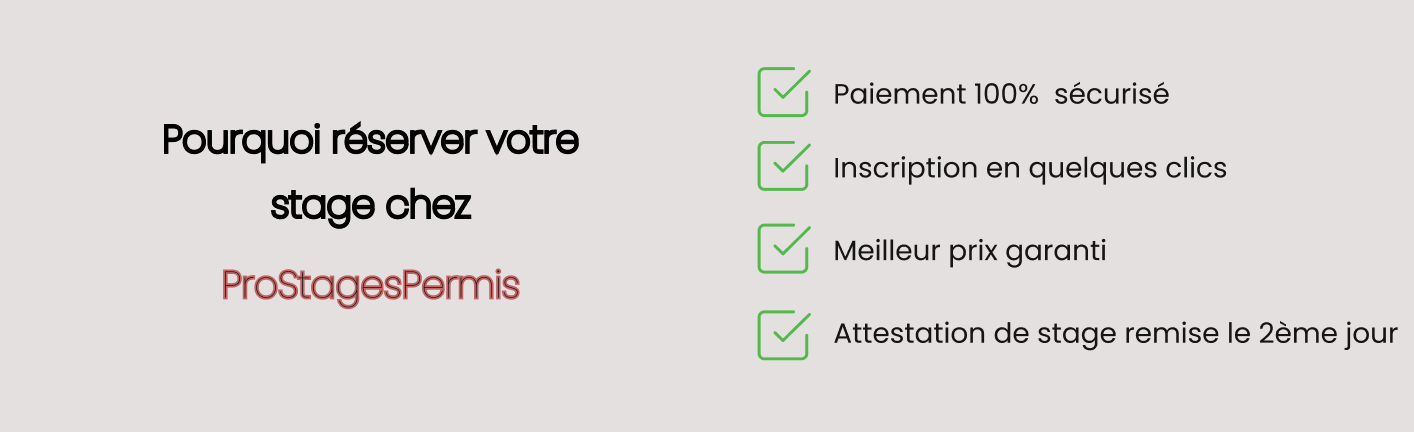
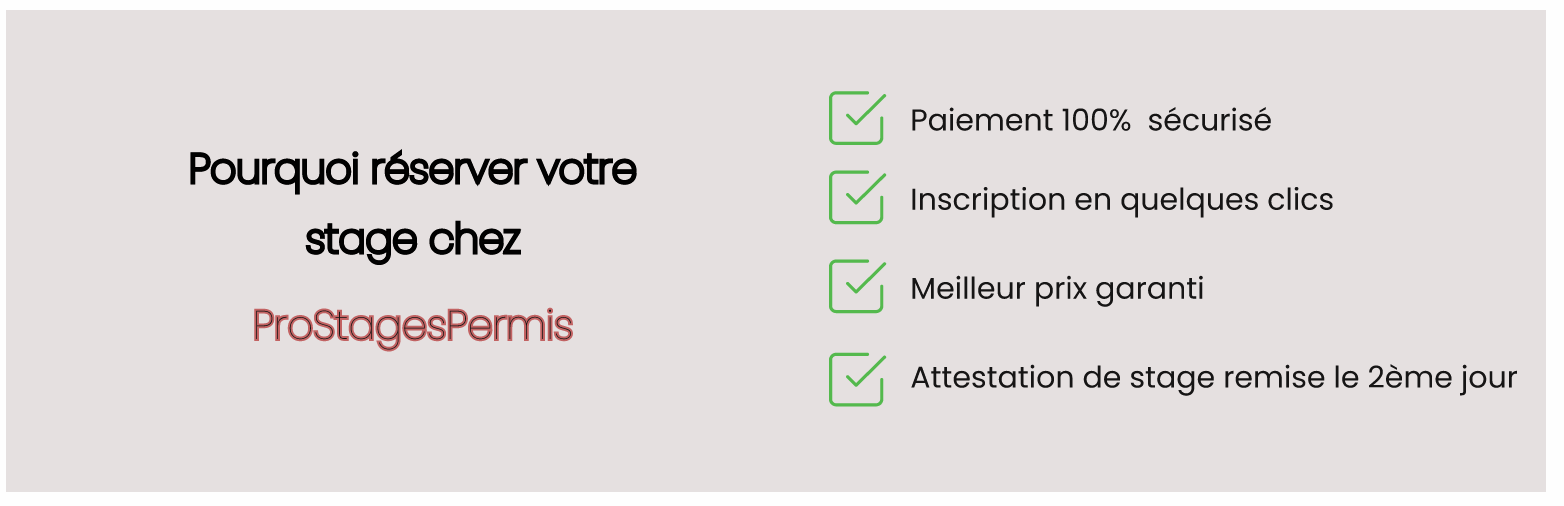
✨ feat: Replace placeholders with actual images in city page
- Replaced "Pourquoi réserver" section with full-width design image
- Replaced Europe 1 blue placeholder with actual logo image
- Updated "Écouter l'extrait" link to YouTube video (https://www.youtube.com/watch?v=z1AsmdcGTaw)
- Added target="_blank" and rel="noopener noreferrer" for external link security
- Copied pourquoi-reserver.png and europe1-logo.png to public folder

🤖 Generated with [Claude Code](https://claude.com/claude-code)

diff --git a/app/stages-recuperation-points/[slug]/page.tsx b/app/stages-recuperation-points/[slug]/page.tsx
@@ -401,27 +401,14 @@ export default function StagesResultsPage() {
         )}
 
         {/* Pourquoi Réserver Section */}
-        <section className="bg-[#e8e3e3] rounded p-8 my-16 flex items-center gap-8">
-          <div className="flex-1">
-            <h2 className="text-xl text-center mb-1">Pourquoi réserver votre stage chez</h2>
-            <h2 className="text-xl text-center text-red-600 mb-6">ProStagesPermis</h2>
-          </div>
-
-          <ul className="flex-1 space-y-2">
-            {[
-              'Paiement 100% sécurisé',
-              'Inscription en quelques clics',
-              'Meilleur prix garanti',
-              'Attestation de stage remise le 2ème jour'
-            ].map((text, index) => (
-              <li key={index} className="flex items-center gap-3">
-                <svg className="w-8 h-8 text-green-600 flex-shrink-0" fill="currentColor" viewBox="0 0 20 20">
-                  <path fillRule="evenodd" d="M10 18a8 8 0 100-16 8 8 0 000 16zm3.707-9.293a1 1 0 00-1.414-1.414L9 10.586 7.707 9.293a1 1 0 00-1.414 1.414l2 2a1 1 0 001.414 0l4-4z" clipRule="evenodd"/>
-                </svg>
-                <span className="text-gray-800">{text}</span>
-              </li>
-            ))}
-          </ul>
+        <section className="my-16">
+          <Image
+            src="/pourquoi-reserver.png"
+            alt="Pourquoi réserver votre stage chez ProStagesPermis"
+            width={1200}
+            height={400}
+            className="w-full h-auto"
+          />
         </section>
 
         {/* Customer Reviews Section */}
@@ -459,13 +446,22 @@ export default function StagesResultsPage() {
           <div className="w-px bg-gray-300"></div>
 
           <aside className="flex flex-col items-center justify-center gap-4 w-80">
-            <div className="w-28 h-16 bg-blue-600 rounded flex items-center justify-center text-white font-bold text-lg">
-              Europe 1
-            </div>
+            <Image
+              src="/europe1-logo.png"
+              alt="Europe 1"
+              width={150}
+              height={80}
+              className="w-auto h-16"
+            />
             <p className="text-center text-gray-700">
               ProStagesPermis cité comme site de confiance par Europe 1
             </p>
-            <a href="#" className="text-red-700 hover:underline">
+            <a
+              href="https://www.youtube.com/watch?v=z1AsmdcGTaw"
+              target="_blank"
+              rel="noopener noreferrer"
+              className="text-red-700 hover:underline"
+            >
               Écouter l'extrait
             </a>
           </aside>
